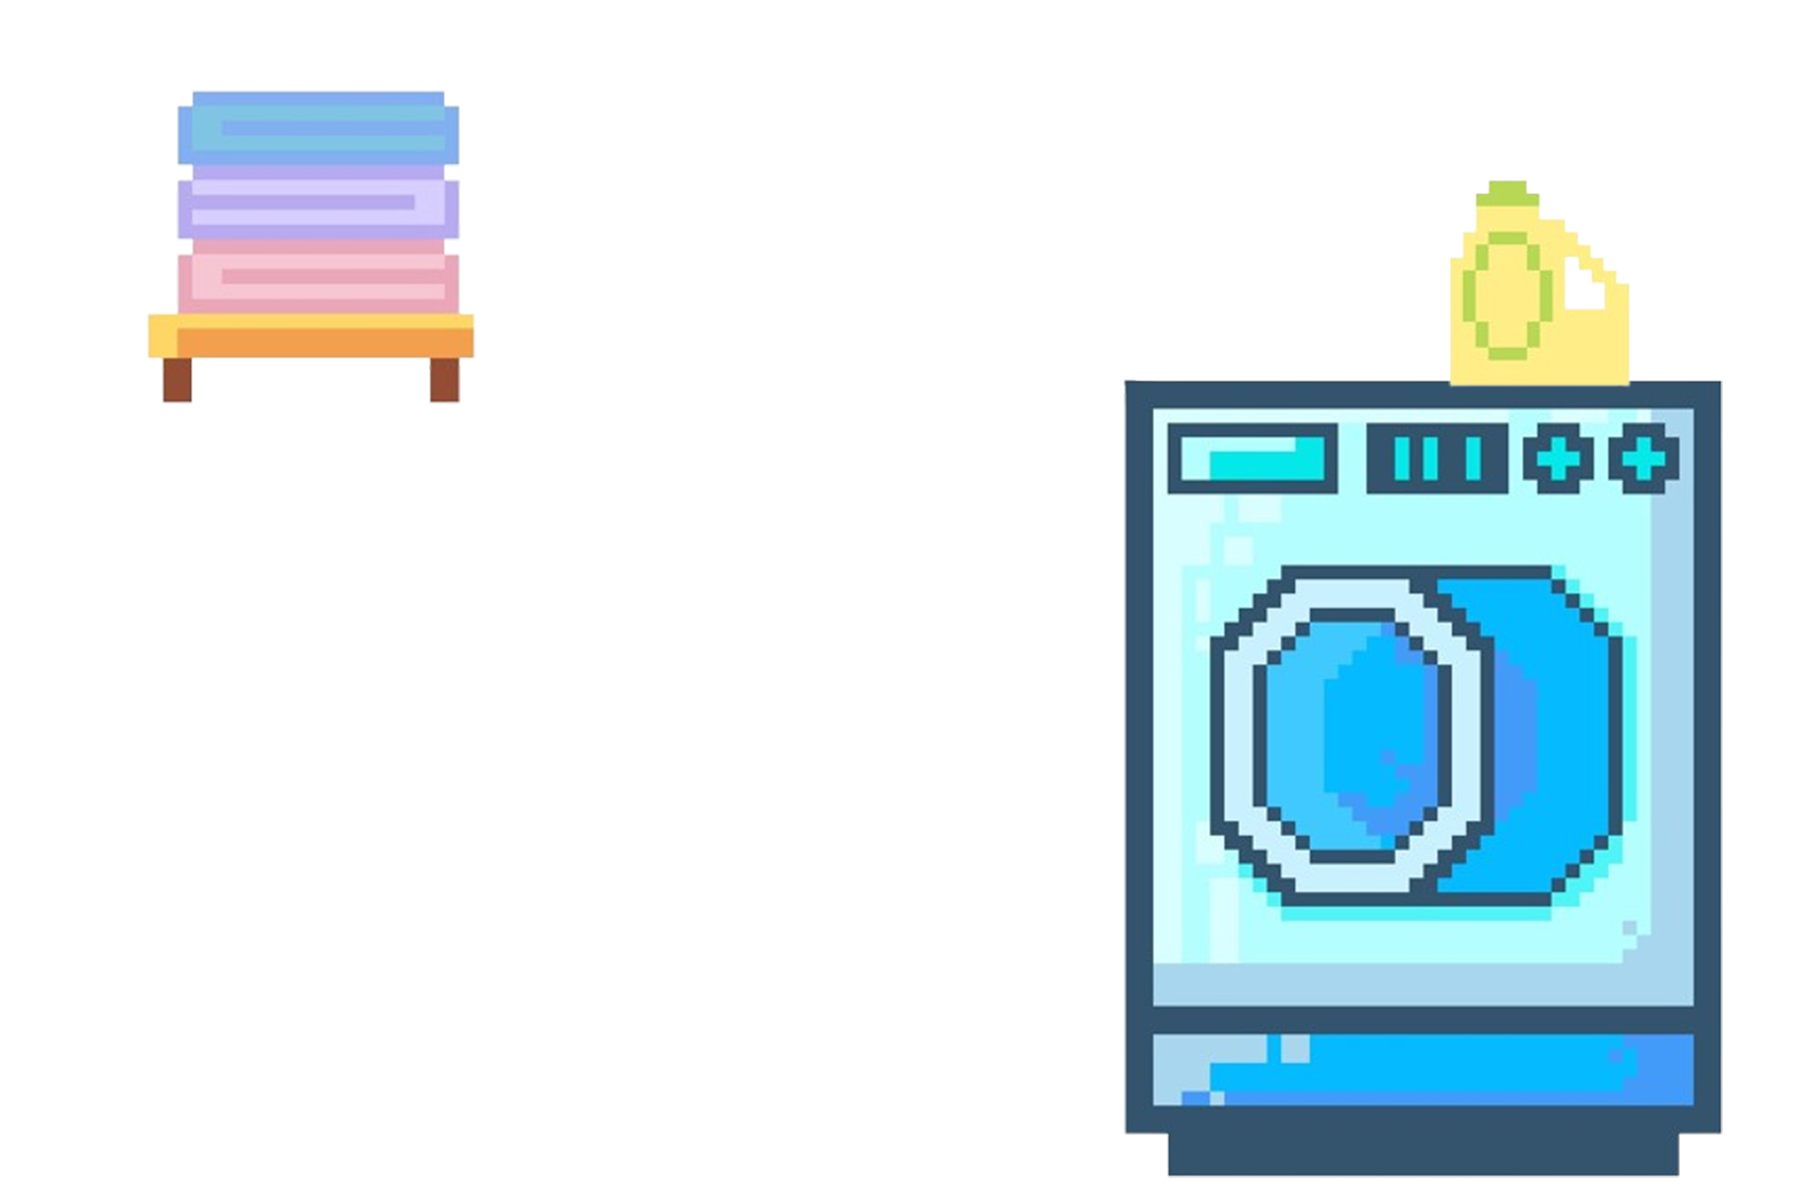
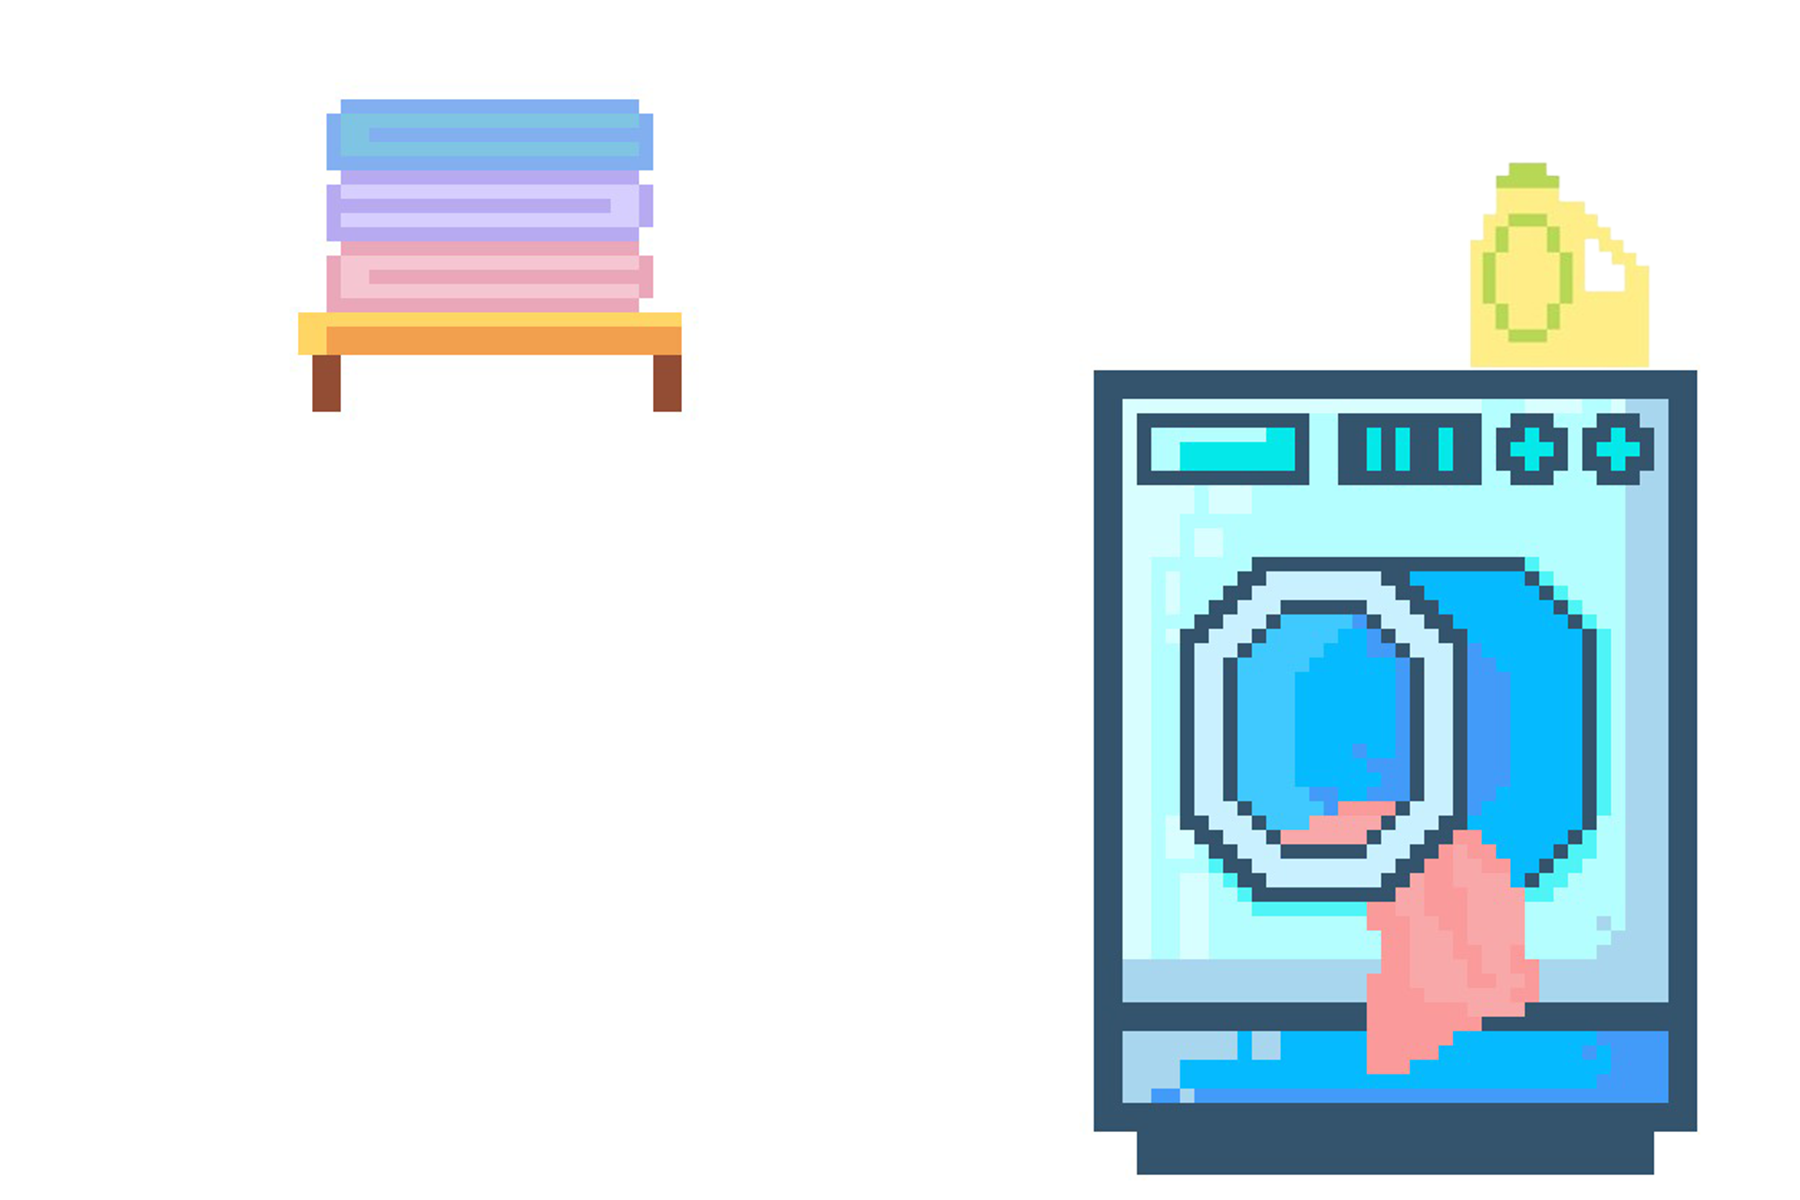
update

Changed region(s): [[0.5911, 0.1233, 0.9644, 0.9867], [0.0622, 0.0617, 0.4044, 0.3392]]

diff --git a/assignment3/index.html b/assignment3/index.html
@@ -13,10 +13,11 @@
     <script src="script.js" defer></script>
   </head>
   <body>
-    <h1>Assignment 3</h1>
 
-    <div class="outer colorbox" draggable="true">Drag me</div>
-    <div class="outer dropbox">Drop me here</div>
-
-    <img src="laundry.png" alt="laundry">
+    <div class="colorbox" draggable="true">
+      <img src="IMG_3447-removebg-preview.png" alt="">
+    </div>
+    <div class="dropbox">
+      <img src="Untitled-2.png" alt="">
+    </div>
   </body>
